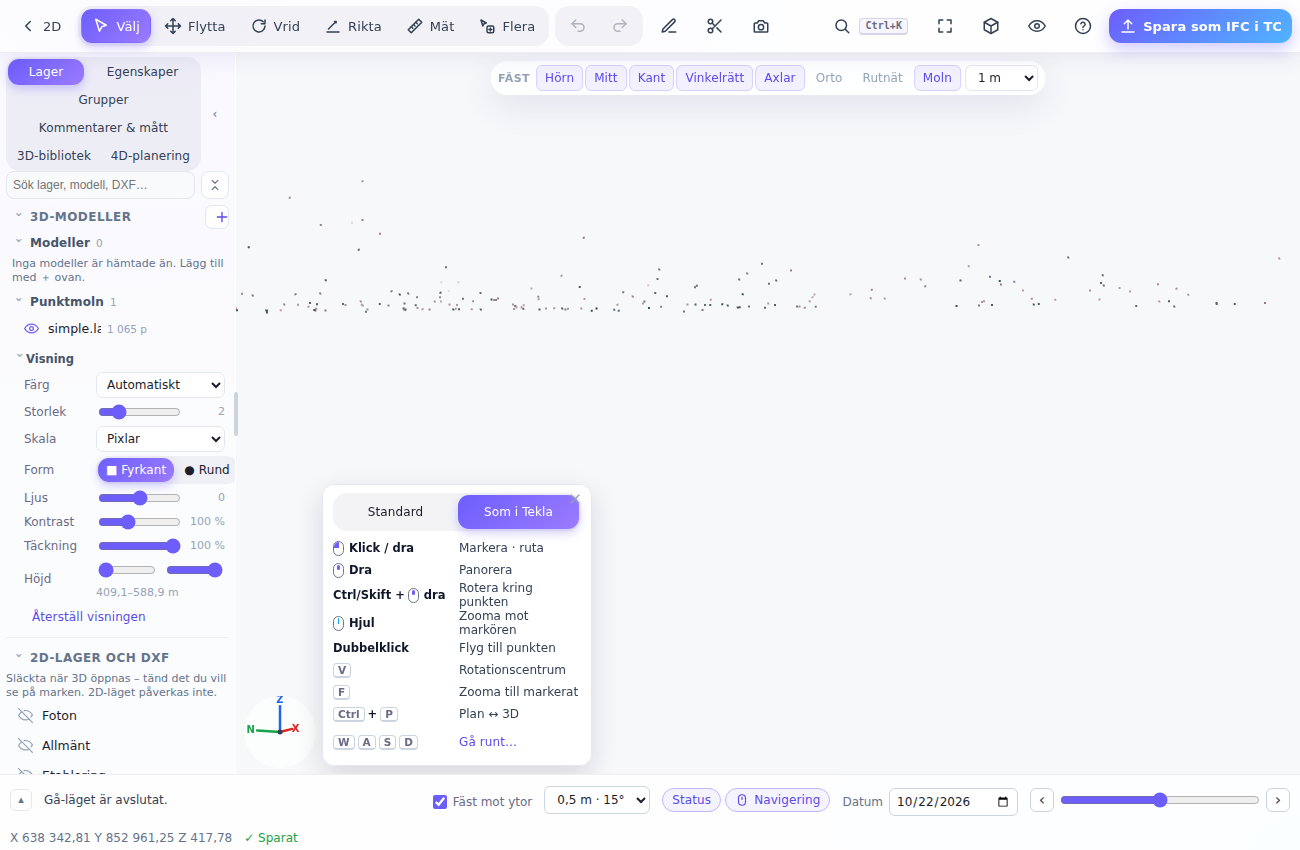
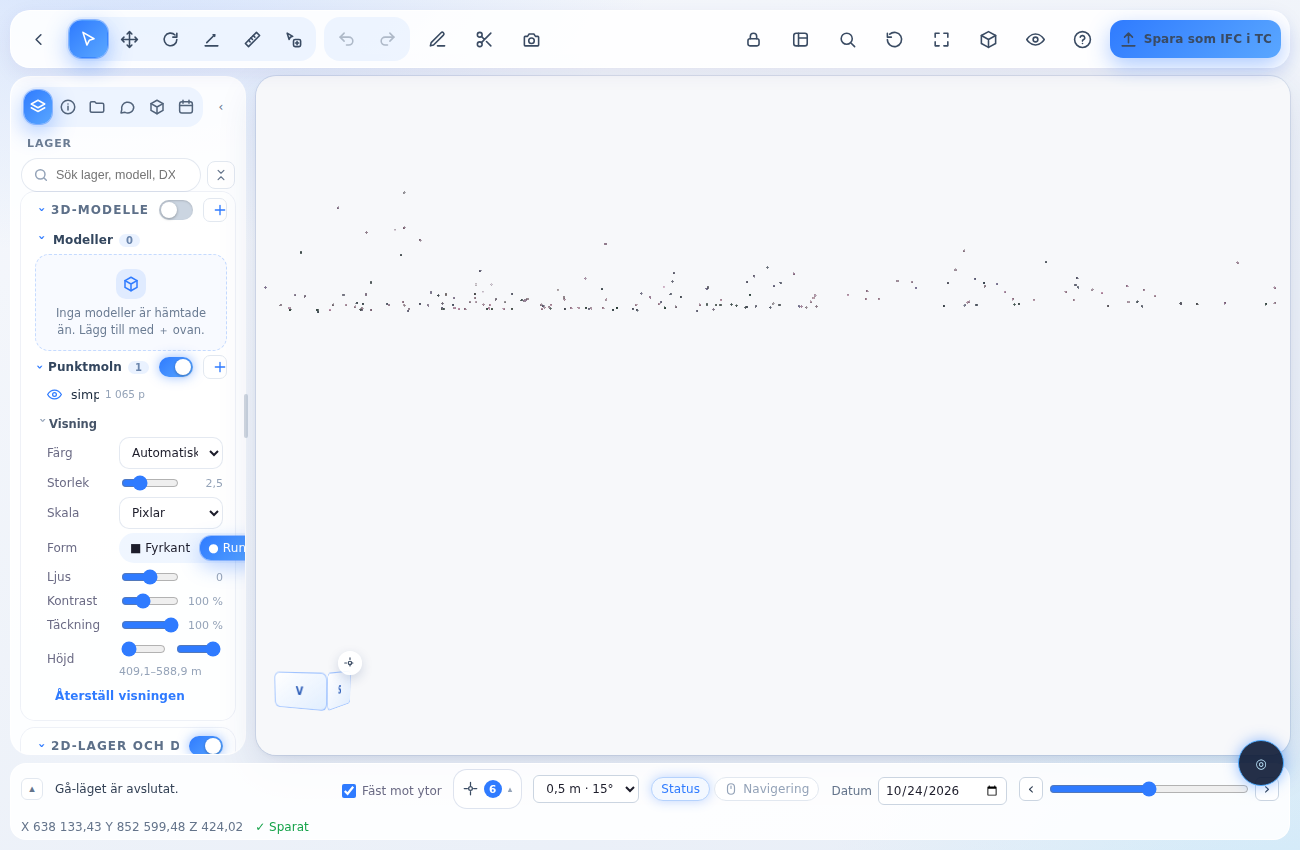
Punktmoln: mjuka runda splats som standard, storlek 2,5 px
Claude-Session: https://claude.ai/code/session_01ECqjXEGHxiKAfdmAab72Dz

diff --git a/docs/lagesplan.html b/docs/lagesplan.html
@@ -10,9 +10,9 @@
 <meta name="theme-color" content="#ffffff" />
 <link rel="apple-touch-icon" href="icons/lagesplan-180.png" />
 <title>Lägesplan – 4D-planering</title>
-<script src="error-guard.js?v=20261024122925"></script>
+<script src="error-guard.js?v=20261024131814"></script>
 <script src="https://cdnjs.cloudflare.com/ajax/libs/pdf.js/3.11.174/pdf.min.js"></script>
-<script src="github-storage.js?v=20261024122925"></script>
+<script src="github-storage.js?v=20261024131814"></script>
 <style>
   /* Beskär bild med musen (lagesplan-imgcrop.js) */
   #imgCropModal { position: fixed; inset: 0; z-index: 1100; background: rgba(15,23,42,.55); display: flex; align-items: center; justify-content: center; }
@@ -3813,111 +3813,111 @@ body.v3-gjdraw #v3Canvas canvas { cursor: crosshair; }
     </div>
   </main>
 </div>
-<script src="lagesplan-merge.js?v=20261024122925"></script>
-<script src="ui-icons.js?v=20261024122925"></script>
-<script src="ui-dialog.js?v=20261024122925"></script>
-<script src="lagesplan-ui.js?v=20261024122925"></script>
-<script src="lagesplan.js?v=20261024122925"></script>
-<script src="lagesplan-tools.js?v=20261024122925"></script>
-<script src="lagesplan-layers.js?v=20261024122925"></script>
-<script src="lagesplan-xls.js?v=20261024122925"></script>
-<script src="lagesplan-storage.js?v=20261024122925"></script>
-<script src="lagesplan-pdfoverlay.js?v=20261024122925"></script>
-<script src="lagesplan-pdfunder.js?v=20261024122925"></script>
-<script src="lagesplan-views.js?v=20261024122925"></script>
-<script src="lagesplan-film.js?v=20261024122925"></script>
-<script src="lagesplan-cad.js?v=20261024122925"></script>
-<script src="lagesplan-ifc2d.js?v=20261024122925"></script>
-<script src="lagesplan-vecpdf.js?v=20261024122925"></script>
-<script src="lagesplan-pdfvec.js?v=20261024122925"></script>
-<script src="lagesplan-print.js?v=20261024122925"></script>
-<script src="lagesplan-arrows.js?v=20261024122925"></script>
-<script src="lagesplan-printshapes.js?v=20261024122925"></script>
-<script src="lagesplan-objstatus.js?v=20261024122925"></script>
-<script src="lagesplan-printsection.js?v=20261024122925"></script>
-<script src="lagesplan-printtable.js?v=20261024122925"></script>
-<script src="lagesplan-printctx.js?v=20261024122925"></script>
-<script src="lagesplan-printdxf.js?v=20261024122925"></script>
-<script src="lagesplan-imgcrop.js?v=20261024122925"></script>
-<script src="lagesplan-printlib.js?v=20261024122925"></script>
-<script src="lagesplan-pdflayers.js?v=20261024122925"></script>
-<script src="vendor/polygon-clipping.umd.min.js?v=20261024122925"></script>
-<script src="lagesplan-objmarks.js?v=20261024122925"></script>
-<script src="lagesplan-objlist.js?v=20261024122925"></script>
-<script src="lagesplan-zones.js?v=20261024122925"></script>
-<script src="lagesplan-wbs.js?v=20261024122925"></script>
-<script src="lagesplan-zonesets.js?v=20261024122925"></script>
-<script src="lagesplan-zoneguard.js?v=20261024122925"></script>
-<script src="lagesplan-zoneexport.js?v=20261024122925"></script>
-<script src="lagesplan-itemlink.js?v=20261024122925"></script>
-<script src="lagesplan-dxfexport.js?v=20261024122925"></script>
-<script src="ifc-writer.js?v=20261024122925"></script>
-<script src="lagesplan-ifcexport.js?v=20261024122925"></script>
-<script src="lagesplan-zonecad.js?v=20261024122925"></script>
-<script src="lagesplan-siteifc.js?v=20261024122925"></script>
-<script src="lagesplan-daily.js?v=20261024122925"></script>
-<script src="lagesplan-gps.js?v=20261024122925"></script>
-<script src="lagesplan-weather.js?v=20261024122925"></script>
-<script src="lagesplan-touch.js?v=20261024122925"></script>
-<script src="lagesplan-drawer.js?v=20261024122925"></script>
-<script src="lagesplan-gpslive.js?v=20261024122925"></script>
-<script src="place3d.js?v=20261024122925"></script>
-<script src="ifc-mesh.js?v=20261024122925"></script>
-<script src="place-models.js?v=20261024122925"></script>
-<script src="lagesplan-3dbuild.js?v=20261024122925"></script>
-<script src="lagesplan-3dlight.js?v=20261024122925"></script>
-<script src="lagesplan-3dpc.js?v=20261024122925"></script>
-<script src="lagesplan-3dbsel.js?v=20261024122925"></script>
-<script src="lagesplan-3dtint.js?v=20261024122925"></script>
-<script src="lagesplan-3dbmove.js?v=20261024122925"></script>
-<script src="ifc-subset.js?v=20261024122925"></script>
-<script src="lagesplan-3dprops.js?v=20261024122925"></script>
-<script src="lagesplan-3dgroups.js?v=20261024122925"></script>
-<script src="lagesplan-3dorg.js?v=20261024122925"></script>
-<script src="lagesplan-3danim.js?v=20261024122925"></script>
-<script src="lagesplan-3dactive.js?v=20261024122925"></script>
-<script src="lagesplan-3dbubbles.js?v=20261024122925"></script>
-<script src="lagesplan-3dfilm.js?v=20261024122925"></script>
-<script src="lagesplan-3dfilmfx.js?v=20261024122925"></script>
-<script src="lagesplan-3dgantt.js?v=20261024122925"></script>
-<script src="lagesplan-3dmode.js?v=20261024122925"></script>
-<script src="lagesplan-ppexport.js?v=20261024122925"></script>
-<script src="lagesplan-3dplan.js?v=20261024122925"></script>
-<script src="lagesplan-3dsite.js?v=20261024122925"></script>
-<script src="lagesplan-3dsitesel.js?v=20261024122925"></script>
-<script src="lagesplan-3ddxf.js?v=20261024122925"></script>
-<script src="lagesplan-3dmeasure.js?v=20261024122925"></script>
-<script src="lagesplan-3dclip.js?v=20261024122925"></script>
-<script src="lagesplan-3dphotos.js?v=20261024122925"></script>
-<script src="lagesplan-3dcomments.js?v=20261024122925"></script>
-<script src="lagesplan-3dannot.js?v=20261024122925"></script>
-<script src="lagesplan-3dlib.js?v=20261024122925"></script>
-<script src="lagesplan-htmlexport.js?v=20261024122925"></script>
-<script src="lagesplan-3dplace.js?v=20261024122925"></script>
-<script src="lagesplan-montage3d.js?v=20261024122925"></script>
-<script src="montage-report-modern.js?v=20261024122925"></script>
-<script src="lagesplan-3dmont.js?v=20261024122925"></script>
-<script src="lagesplan-3dlayers.js?v=20261024122925"></script>
-<script src="lagesplan-3dnav.js?v=20261024122925"></script>
-<script src="lagesplan-3dui.js?v=20261024122925"></script>
-<script src="lagesplan-3dgjut.js?v=20261024122925"></script>
-<script src="lagesplan-3dexplode.js?v=20261024122925"></script>
-<script src="lagesplan-3dchar.js?v=20261024122925"></script>
-<script src="lagesplan-3dglb.js?v=20261024122925"></script>
-<script src="lagesplan-3dlift.js?v=20261024122925"></script>
-<script src="place-geo.js?v=20261024122925"></script>
-<script src="place-smart.js?v=20261024122925"></script>
-<script src="place-smart-objs.js?v=20261024122925"></script>
-<script src="place-crew.js?v=20261024122925"></script>
-<script src="lagesplan-3dwheel.js?v=20261024122925"></script>
-<script src="lagesplan-3dveh.js?v=20261024122925"></script>
-<script src="lagesplan-3dvehifc.js?v=20261024122925"></script>
-<script src="lagesplan-3dwalk.js?v=20261024122925"></script>
-<script src="lagesplan-3ddialogs.js?v=20261024122925"></script>
-<script src="lagesplan-3dclash.js?v=20261024122925"></script>
-<script src="lagesplan-3dhandles.js?v=20261024122925"></script>
-<script src="lagesplan-3dtools.js?v=20261024122925"></script>
-<script src="lagesplan-3d.js?v=20261024122925"></script>
-<script src="lagesplan-keys.js?v=20261024122925"></script>
+<script src="lagesplan-merge.js?v=20261024131814"></script>
+<script src="ui-icons.js?v=20261024131814"></script>
+<script src="ui-dialog.js?v=20261024131814"></script>
+<script src="lagesplan-ui.js?v=20261024131814"></script>
+<script src="lagesplan.js?v=20261024131814"></script>
+<script src="lagesplan-tools.js?v=20261024131814"></script>
+<script src="lagesplan-layers.js?v=20261024131814"></script>
+<script src="lagesplan-xls.js?v=20261024131814"></script>
+<script src="lagesplan-storage.js?v=20261024131814"></script>
+<script src="lagesplan-pdfoverlay.js?v=20261024131814"></script>
+<script src="lagesplan-pdfunder.js?v=20261024131814"></script>
+<script src="lagesplan-views.js?v=20261024131814"></script>
+<script src="lagesplan-film.js?v=20261024131814"></script>
+<script src="lagesplan-cad.js?v=20261024131814"></script>
+<script src="lagesplan-ifc2d.js?v=20261024131814"></script>
+<script src="lagesplan-vecpdf.js?v=20261024131814"></script>
+<script src="lagesplan-pdfvec.js?v=20261024131814"></script>
+<script src="lagesplan-print.js?v=20261024131814"></script>
+<script src="lagesplan-arrows.js?v=20261024131814"></script>
+<script src="lagesplan-printshapes.js?v=20261024131814"></script>
+<script src="lagesplan-objstatus.js?v=20261024131814"></script>
+<script src="lagesplan-printsection.js?v=20261024131814"></script>
+<script src="lagesplan-printtable.js?v=20261024131814"></script>
+<script src="lagesplan-printctx.js?v=20261024131814"></script>
+<script src="lagesplan-printdxf.js?v=20261024131814"></script>
+<script src="lagesplan-imgcrop.js?v=20261024131814"></script>
+<script src="lagesplan-printlib.js?v=20261024131814"></script>
+<script src="lagesplan-pdflayers.js?v=20261024131814"></script>
+<script src="vendor/polygon-clipping.umd.min.js?v=20261024131814"></script>
+<script src="lagesplan-objmarks.js?v=20261024131814"></script>
+<script src="lagesplan-objlist.js?v=20261024131814"></script>
+<script src="lagesplan-zones.js?v=20261024131814"></script>
+<script src="lagesplan-wbs.js?v=20261024131814"></script>
+<script src="lagesplan-zonesets.js?v=20261024131814"></script>
+<script src="lagesplan-zoneguard.js?v=20261024131814"></script>
+<script src="lagesplan-zoneexport.js?v=20261024131814"></script>
+<script src="lagesplan-itemlink.js?v=20261024131814"></script>
+<script src="lagesplan-dxfexport.js?v=20261024131814"></script>
+<script src="ifc-writer.js?v=20261024131814"></script>
+<script src="lagesplan-ifcexport.js?v=20261024131814"></script>
+<script src="lagesplan-zonecad.js?v=20261024131814"></script>
+<script src="lagesplan-siteifc.js?v=20261024131814"></script>
+<script src="lagesplan-daily.js?v=20261024131814"></script>
+<script src="lagesplan-gps.js?v=20261024131814"></script>
+<script src="lagesplan-weather.js?v=20261024131814"></script>
+<script src="lagesplan-touch.js?v=20261024131814"></script>
+<script src="lagesplan-drawer.js?v=20261024131814"></script>
+<script src="lagesplan-gpslive.js?v=20261024131814"></script>
+<script src="place3d.js?v=20261024131814"></script>
+<script src="ifc-mesh.js?v=20261024131814"></script>
+<script src="place-models.js?v=20261024131814"></script>
+<script src="lagesplan-3dbuild.js?v=20261024131814"></script>
+<script src="lagesplan-3dlight.js?v=20261024131814"></script>
+<script src="lagesplan-3dpc.js?v=20261024131814"></script>
+<script src="lagesplan-3dbsel.js?v=20261024131814"></script>
+<script src="lagesplan-3dtint.js?v=20261024131814"></script>
+<script src="lagesplan-3dbmove.js?v=20261024131814"></script>
+<script src="ifc-subset.js?v=20261024131814"></script>
+<script src="lagesplan-3dprops.js?v=20261024131814"></script>
+<script src="lagesplan-3dgroups.js?v=20261024131814"></script>
+<script src="lagesplan-3dorg.js?v=20261024131814"></script>
+<script src="lagesplan-3danim.js?v=20261024131814"></script>
+<script src="lagesplan-3dactive.js?v=20261024131814"></script>
+<script src="lagesplan-3dbubbles.js?v=20261024131814"></script>
+<script src="lagesplan-3dfilm.js?v=20261024131814"></script>
+<script src="lagesplan-3dfilmfx.js?v=20261024131814"></script>
+<script src="lagesplan-3dgantt.js?v=20261024131814"></script>
+<script src="lagesplan-3dmode.js?v=20261024131814"></script>
+<script src="lagesplan-ppexport.js?v=20261024131814"></script>
+<script src="lagesplan-3dplan.js?v=20261024131814"></script>
+<script src="lagesplan-3dsite.js?v=20261024131814"></script>
+<script src="lagesplan-3dsitesel.js?v=20261024131814"></script>
+<script src="lagesplan-3ddxf.js?v=20261024131814"></script>
+<script src="lagesplan-3dmeasure.js?v=20261024131814"></script>
+<script src="lagesplan-3dclip.js?v=20261024131814"></script>
+<script src="lagesplan-3dphotos.js?v=20261024131814"></script>
+<script src="lagesplan-3dcomments.js?v=20261024131814"></script>
+<script src="lagesplan-3dannot.js?v=20261024131814"></script>
+<script src="lagesplan-3dlib.js?v=20261024131814"></script>
+<script src="lagesplan-htmlexport.js?v=20261024131814"></script>
+<script src="lagesplan-3dplace.js?v=20261024131814"></script>
+<script src="lagesplan-montage3d.js?v=20261024131814"></script>
+<script src="montage-report-modern.js?v=20261024131814"></script>
+<script src="lagesplan-3dmont.js?v=20261024131814"></script>
+<script src="lagesplan-3dlayers.js?v=20261024131814"></script>
+<script src="lagesplan-3dnav.js?v=20261024131814"></script>
+<script src="lagesplan-3dui.js?v=20261024131814"></script>
+<script src="lagesplan-3dgjut.js?v=20261024131814"></script>
+<script src="lagesplan-3dexplode.js?v=20261024131814"></script>
+<script src="lagesplan-3dchar.js?v=20261024131814"></script>
+<script src="lagesplan-3dglb.js?v=20261024131814"></script>
+<script src="lagesplan-3dlift.js?v=20261024131814"></script>
+<script src="place-geo.js?v=20261024131814"></script>
+<script src="place-smart.js?v=20261024131814"></script>
+<script src="place-smart-objs.js?v=20261024131814"></script>
+<script src="place-crew.js?v=20261024131814"></script>
+<script src="lagesplan-3dwheel.js?v=20261024131814"></script>
+<script src="lagesplan-3dveh.js?v=20261024131814"></script>
+<script src="lagesplan-3dvehifc.js?v=20261024131814"></script>
+<script src="lagesplan-3dwalk.js?v=20261024131814"></script>
+<script src="lagesplan-3ddialogs.js?v=20261024131814"></script>
+<script src="lagesplan-3dclash.js?v=20261024131814"></script>
+<script src="lagesplan-3dhandles.js?v=20261024131814"></script>
+<script src="lagesplan-3dtools.js?v=20261024131814"></script>
+<script src="lagesplan-3d.js?v=20261024131814"></script>
+<script src="lagesplan-keys.js?v=20261024131814"></script>
 </body>
 </html>

diff --git a/docs/lagesplan-3dpc.js b/docs/lagesplan-3dpc.js
@@ -22,7 +22,7 @@ const l3pcKey = () => `lagesplan-pc-${projectId}`;
    tak efter datorns minne så att fliken inte kraschar: ~16 byte per punkt i minnet och lika mycket i grafikkortet. */
 const l3pcMaxPts = () => { const gb = (typeof navigator !== "undefined" && navigator.deviceMemory) || 8; return Math.round(Math.max(20e6, Math.min(250e6, gb * 1e9 / 45))); };
 const l3pcBudget = () => { const v = l3Prefs().pcBudget; if (v === "all") return l3pcMaxPts(); const b = Number(v); return b > 0 ? b : (typeof lowMemDevice !== "undefined" && lowMemDevice ? 1.5e6 : 6e6); };
-const l3pcSize = () => Number(l3Prefs().pcSize) || 2;
+const l3pcSize = () => Number(l3Prefs().pcSize) || 2.5;
 const l3pcMode = () => l3Prefs().pcMode || "auto";
 const l3pcPref = (k, d) => { const v = l3Prefs()[k]; return v == null || v === "" ? d : v; };
 const l3pcMil = n => (n < 100000 ? Math.round(n).toLocaleString("sv-SE") + " p" : (n / 1e6).toFixed(n >= 1e7 ? 0 : 1).replace(".", ",") + " milj.");
@@ -184,6 +184,7 @@ function l3pcBuildLod(c) {
 function l3pcLodMatApply(c) {
   const L = c.lodMat; if (!L) return;
   const m = c.mat, f = Math.min(2.4, 0.62 * Math.sqrt(c.lodK || 1));
+  L.onBeforeCompile = m.onBeforeCompile; L.customProgramCacheKey = m.customProgramCacheKey; L.userData.soft = m.userData.soft;
   L.sizeAttenuation = m.sizeAttenuation; L.size = m.size * Math.max(1, f);
   L.map = m.map; L.alphaTest = m.alphaTest; L.transparent = m.transparent; L.opacity = m.opacity; L.depthWrite = m.depthWrite; L.clippingPlanes = m.clippingPlanes;
   L.needsUpdate = true;
@@ -233,12 +234,25 @@ function l3pcDiscTex() {
   const x = cv.getContext("2d"); x.fillStyle = "#fff"; x.beginPath(); x.arc(32, 32, 30, 0, Math.PI * 2); x.fill();
   l3pcDisc = new THREE.CanvasTexture(cv); return l3pcDisc;
 }
+/* Mjuka runda splats (som i Trimble Connect): cirkelmask utan kantflimmer och lätt skuggning mot kanten, så att tätt packade punkter
+   flyter ihop till en yta i stället för att ge en rasterbild. Görs i punktmaterialets shader – lika billigt som fyrkanten. */
+function l3pcSoft(m, on) {
+  if (!!m.userData.soft === on && m.onBeforeCompile) return;
+  m.userData.soft = on;
+  m.onBeforeCompile = on ? sh => {
+    sh.fragmentShader = sh.fragmentShader.replace("#include <color_fragment>", `#include <color_fragment>
+      float pcD = length(gl_PointCoord - vec2(0.5)); if (pcD > 0.5) discard;
+      diffuseColor.rgb *= 1.0 - 0.28 * smoothstep(0.2, 0.5, pcD);`);
+  } : () => {};
+  m.customProgramCacheKey = () => on ? "pcsoft" : "pcsq";
+  m.needsUpdate = true;
+}
 /* Visningen i grafikkortet: storlek (pixlar eller meter), form, genomskinlighet och höjdfiltret. */
 function l3pcMatApply(c) {
-  const m = c.mat, atten = !!l3Prefs().pcAtten, round = !!l3Prefs().pcRound, op = Number(l3pcPref("pcOpacity", 100)) / 100;
+  const m = c.mat, atten = !!l3Prefs().pcAtten, round = l3Prefs().pcRound !== false, op = Number(l3pcPref("pcOpacity", 100)) / 100;
   m.sizeAttenuation = atten;
   m.size = atten ? l3pcSize() * 0.02 : l3pcSize(); // i meter: 2 → 4 cm
-  m.map = round ? l3pcDiscTex() : null; m.alphaTest = round ? 0.5 : 0;
+  m.map = null; m.alphaTest = 0; l3pcSoft(m, round);
   m.transparent = op < 0.999; m.opacity = op; m.depthWrite = op >= 0.999;
   const lo = Number(l3pcPref("pcZlo", 0)), hi = Number(l3pcPref("pcZhi", 100));
   if (lo > 0 || hi < 100) {
@@ -407,7 +421,7 @@ function l3pcHtml(row, esc) {
       <label>Färg</label><div class="v3-pc-f">${sel("v3PcMode", [["auto", "Automatiskt"], ["rgb", "Molnets färg"], ["int", "Intensitet"], ["z", "Höjd"], ["solid", "Enfärgad"]], mode)}${mode === "solid" ? `<input type="color" id="v3PcColor" value="${esc(l3pcPref("pcColor", "#94a3b8"))}" title="Färg" />` : ""}</div>
       <label title="Punkternas storlek">Storlek</label><div class="v3-pc-f"><input type="range" id="v3PcSize" min="0.5" max="8" step="0.5" value="${l3pcSize()}" /><output>${String(l3pcSize()).replace(".", ",")}</output></div>
       <label title="I skärmen: lika stora på alla avstånd. I meter: växer när du zoomar in, som riktiga ytor.">Skala</label><div class="v3-pc-f">${sel("v3PcAtten", [["", "Pixlar"], ["1", "Meter"]], P.pcAtten ? "1" : "")}</div>
-      <label>Form</label><div class="v3-pc-f"><div class="v3-segs v3-pc-seg"><button type="button" data-pc-round="" class="${P.pcRound ? "" : "on"}">■ Fyrkant</button><button type="button" data-pc-round="1" class="${P.pcRound ? "on" : ""}">● Rund</button></div></div>
+      <label>Form</label><div class="v3-pc-f"><div class="v3-segs v3-pc-seg"><button type="button" data-pc-round="" class="${P.pcRound !== false ? "" : "on"}">■ Fyrkant</button><button type="button" data-pc-round="1" class="${P.pcRound !== false ? "on" : ""}">● Rund</button></div></div>
       <label>Ljus</label><div class="v3-pc-f"><input type="range" id="v3PcBright" min="-50" max="50" step="5" value="${l3pcPref("pcBright", 0)}" /><output>${l3pcPref("pcBright", 0)}</output></div>
       <label>Kontrast</label><div class="v3-pc-f"><input type="range" id="v3PcContrast" min="50" max="200" step="10" value="${l3pcPref("pcContrast", 100)}" /><output>${l3pcPref("pcContrast", 100)} %</output></div>
       <label title="Genomskinlighet – se modellen genom molnet">Täckning</label><div class="v3-pc-f"><input type="range" id="v3PcOpacity" min="10" max="100" step="5" value="${l3pcPref("pcOpacity", 100)}" /><output>${l3pcPref("pcOpacity", 100)} %</output></div>

diff --git a/docs/index.html b/docs/index.html
@@ -3,12 +3,12 @@
 <head>
 <meta charset="UTF-8" />
 <title>4D-planering</title>
-<link rel="stylesheet" href="style.css?v=20261024122925" />
-<script src="error-guard.js?v=20261024122925"></script>
+<link rel="stylesheet" href="style.css?v=20261024131814" />
+<script src="error-guard.js?v=20261024131814"></script>
 <script src="https://components.connect.trimble.com/trimble-connect-workspace-api/index.js"></script>
 <script src="https://cdnjs.cloudflare.com/ajax/libs/xlsx/0.18.5/xlsx.full.min.js"></script>
-<script src="plan-excel-parser.js?v=20261024122925"></script>
-<script src="plan-excel-comments.js?v=20261024122925"></script>
+<script src="plan-excel-parser.js?v=20261024131814"></script>
+<script src="plan-excel-comments.js?v=20261024131814"></script>
 </head>
 <body>
 
@@ -759,33 +759,33 @@
     </div>
   </div>
 
-  <script src="github-storage.js?v=20261024122925"></script>
-  <script src="excel-link.js?v=20261024122925"></script>
-  <script src="dashboard-link.js?v=20261024122925"></script>
-  <script src="app.js?v=20261024122925"></script>
-<script src="import-report-html.js?v=20261024122925"></script>
-  <script src="manual-markings.js?v=20261024122925"></script>
-  <script src="ifc-writer.js?v=20261024122925"></script>
-  <script src="pp-import.js?v=20261024122925"></script>
-  <script src="pp-compare.js?v=20261024122925"></script>
-  <script src="data-maintenance.js?v=20261024122925"></script>
-  <script src="ifc-subset.js?v=20261024122925"></script>
-  <script src="tc-organizer.js?v=20261024122925"></script>
-  <script src="week-summary.js?v=20261024122925"></script>
-  <script src="ifc-mesh.js?v=20261024122925"></script>
-  <script src="place-models.js?v=20261024122925"></script>
-  <script src="tc-livemove.js?v=20261024122925"></script>
-  <script src="place3d.js?v=20261024122925"></script>
-  <script src="place-geo.js?v=20261024122925"></script>
-<script src="place-smart.js?v=20261024122925"></script>
-<script src="place-smart-objs.js?v=20261024122925"></script>
-<script src="place-crew.js?v=20261024122925"></script>
-  <script src="volume-ifc.js?v=20261024122925"></script>
-  <script src="sub-activity-list.js?v=20261024122925"></script>
-  <script src="activity-remove.js?v=20261024122925"></script>
-  <script src="dup-check.js?v=20261024122925"></script>
-  <script src="ui-shell.js?v=20261024122925"></script>
-  <script src="undo.js?v=20261024122925"></script>
-  <script src="planning-keys.js?v=20261024122925"></script>
+  <script src="github-storage.js?v=20261024131814"></script>
+  <script src="excel-link.js?v=20261024131814"></script>
+  <script src="dashboard-link.js?v=20261024131814"></script>
+  <script src="app.js?v=20261024131814"></script>
+<script src="import-report-html.js?v=20261024131814"></script>
+  <script src="manual-markings.js?v=20261024131814"></script>
+  <script src="ifc-writer.js?v=20261024131814"></script>
+  <script src="pp-import.js?v=20261024131814"></script>
+  <script src="pp-compare.js?v=20261024131814"></script>
+  <script src="data-maintenance.js?v=20261024131814"></script>
+  <script src="ifc-subset.js?v=20261024131814"></script>
+  <script src="tc-organizer.js?v=20261024131814"></script>
+  <script src="week-summary.js?v=20261024131814"></script>
+  <script src="ifc-mesh.js?v=20261024131814"></script>
+  <script src="place-models.js?v=20261024131814"></script>
+  <script src="tc-livemove.js?v=20261024131814"></script>
+  <script src="place3d.js?v=20261024131814"></script>
+  <script src="place-geo.js?v=20261024131814"></script>
+<script src="place-smart.js?v=20261024131814"></script>
+<script src="place-smart-objs.js?v=20261024131814"></script>
+<script src="place-crew.js?v=20261024131814"></script>
+  <script src="volume-ifc.js?v=20261024131814"></script>
+  <script src="sub-activity-list.js?v=20261024131814"></script>
+  <script src="activity-remove.js?v=20261024131814"></script>
+  <script src="dup-check.js?v=20261024131814"></script>
+  <script src="ui-shell.js?v=20261024131814"></script>
+  <script src="undo.js?v=20261024131814"></script>
+  <script src="planning-keys.js?v=20261024131814"></script>
 </body>
 </html>

diff --git a/test/test_lagesplan_3dpc.js b/test/test_lagesplan_3dpc.js
@@ -118,7 +118,7 @@ const PDFJS = `window.pdfjsLib = { GlobalWorkerOptions: {}, AnnotationMode: { DI
       const c = l3pc.clouds[0], m = c.mat, out = {};
       const sec = document.querySelector('#v3PalLayers .v3-pc-view'); sec.open = true;
       document.querySelector('#v3PalLayers [data-pc-round="1"]').click();
-      out.round = !!c.mat.map && c.mat.alphaTest === 0.5;
+      out.round = c.mat.userData.soft === true && !c.mat.map;
       const set = (id, v, ev = 'input') => { const e = document.getElementById(id); e.value = v; e.dispatchEvent(new Event(ev)); if (ev === 'input') e.dispatchEvent(new Event('change')); };
       set('v3PcOpacity', 50); out.op = m.transparent && Math.abs(m.opacity - 0.5) < 1e-6 && !m.depthWrite;
       set('v3PcZlo', 20); set('v3PcZhi', 70); out.clip = (m.clippingPlanes || []).length === 2 && l3.renderer.localClippingEnabled;

diff --git a/docs/app.js b/docs/app.js
@@ -9,7 +9,7 @@
 // Uppdateras för hand till aktuellt klockslag/datum (Europa/Stockholm) varje
 // gång en ny version pushas till GitHub, så man kan se i appen när den
 // senast uppdaterades.
-const APP_VERSION = "2026-10-24 14:29";
+const APP_VERSION = "2026-10-24 15:18";
 
 let API = null;              // Workspace API-instans
 let projectId = null;        // Aktuellt Trimble Connect-projekt
